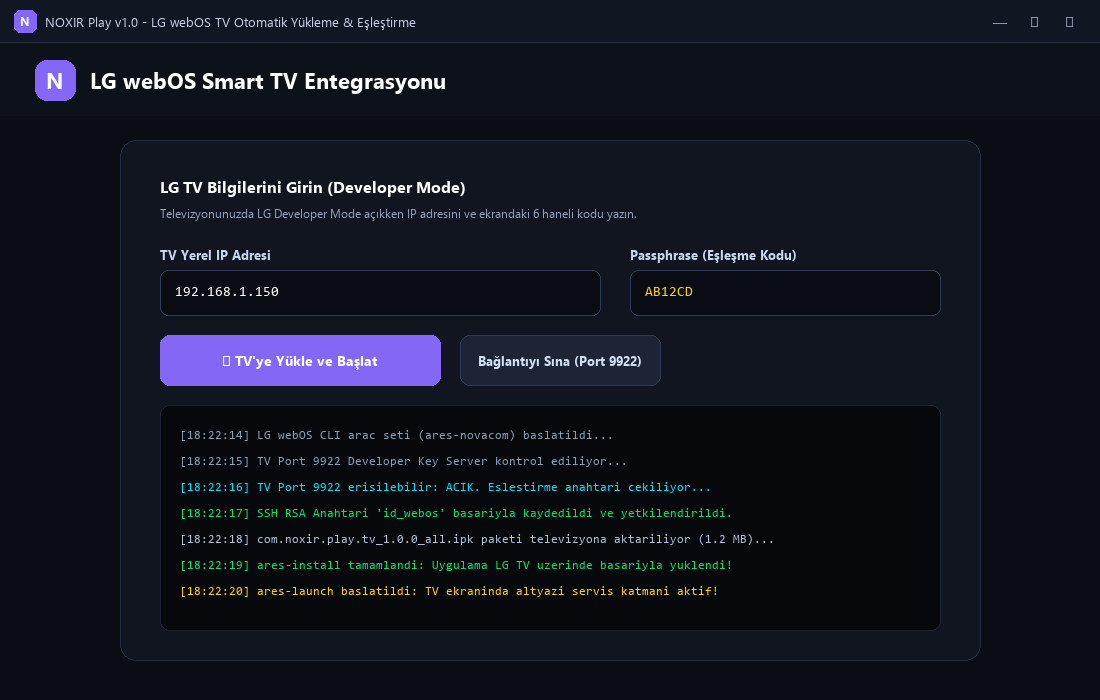
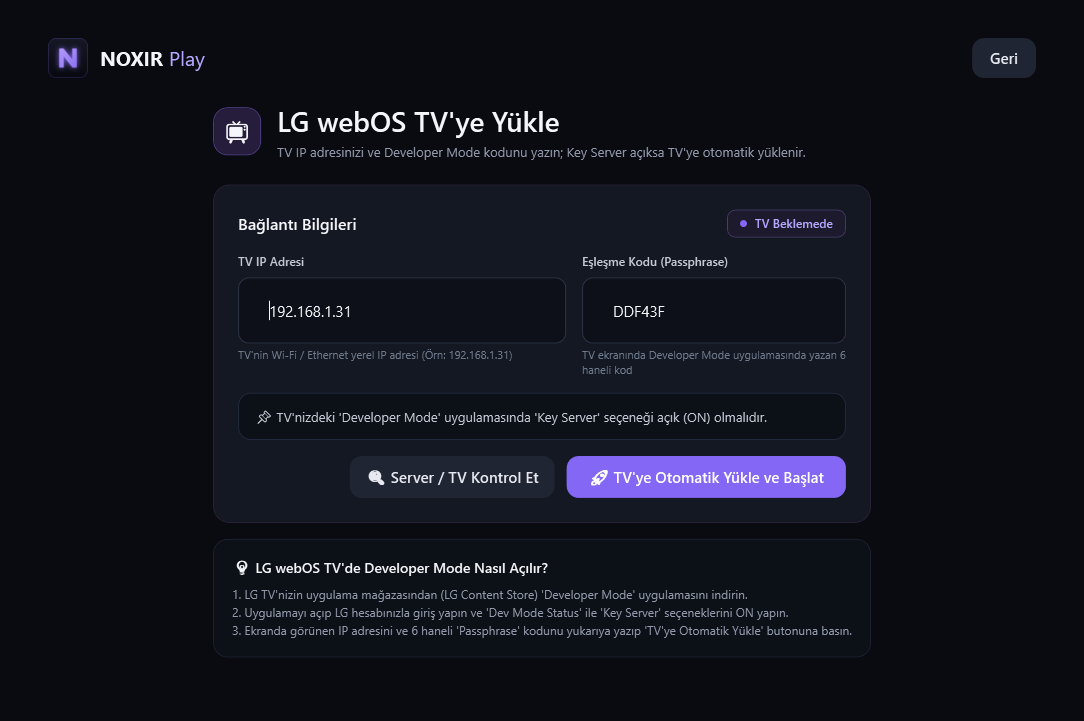
Update website UI screenshots to v1.0.6 with About tab

diff --git a/index.html b/index.html
@@ -147,7 +147,7 @@
       <div class="app-titlebar">
         <div style="display: flex; align-items: center; gap: 8px;">
           <img src="assets/icon.png" width="18" height="18" style="border-radius: 4px;">
-          <span style="font-size: 0.85rem; font-weight: 600; color: #cfd8dc;">NOXIR Play v1.0 - PS5 Canlı Altyazı & TV Çeviri (Resmi Arayüz)</span>
+          <span style="font-size: 0.85rem; font-weight: 600; color: #cfd8dc;">NOXIR Play v1.0.6 - PS5 Canlı Altyazı & TV Çeviri (Resmi Arayüz)</span>
         </div>
         <div style="display: flex; gap: 10px; color: #78909c; font-size: 0.8rem;">
           <span>—</span>
@@ -174,6 +174,10 @@
           <div class="app-nav-item" data-tab="guide">
             <i class="fa-solid fa-book-open"></i>
             <span>Kullanım Kılavuzu</span>
+          </div>
+          <div class="app-nav-item" data-tab="about">
+            <i class="fa-solid fa-circle-info"></i>
+            <span>Hakkında &amp; Güncelleme</span>
           </div>
 
           <div style="margin-top: auto; padding: 1rem; background: rgba(0,0,0,0.3); border-radius: 10px; font-size: 0.75rem; color: #78909c;">
@@ -237,7 +241,7 @@
               <div class="mockup-card">
                 <h3><i class="fa-solid fa-tv" style="color: var(--accent-purple);"></i> Otomatik LG webOS Kurulumu</h3>
                 <p style="font-size: 0.88rem; color: #90a4ae;">
-                  Port 9922 üzerinden SSH anahtarı otomatik çekilir ve <code style="color: #00e676;">com.noxir.play.tv_1.0.0_all.ipk</code> paketi televizyonunuza tek tıkla yüklenir.
+                  Port 9922 üzerinden SSH anahtarı otomatik çekilir ve <code style="color: #00e676;">com.noxir.play.tv_1.0.1_all.ipk</code> paketi televizyonunuza tek tıkla yüklenir.
                 </p>
               </div>
               <div class="mockup-card">
@@ -273,10 +277,52 @@
             </div>
           </div>
 
+          <!-- Tab 5: About & Updates (Real UI Screenshot) -->
+          <div class="app-tab-pane" id="tab-about">
+            <div class="app-screenshot-frame">
+              <img src="assets/ui-about.png" alt="NOXIR Play Hakkında ve Güncelleme Ekran Görüntüsü" class="app-screenshot-img">
+            </div>
+            <div class="mockup-grid">
+              <div class="mockup-card">
+                <h3><i class="fa-solid fa-sparkles" style="color: var(--accent-purple);"></i> Sürüm Notları &amp; Bunlar Getirildi</h3>
+                <p style="font-size: 0.88rem; color: #90a4ae;">
+                  Her güncellemede hangi yeniliklerin ve düzeltmelerin getirildiğini doğrudan uygulama içindeki Hakkında ekranından takip edebilirsiniz.
+                </p>
+              </div>
+              <div class="mockup-card">
+                <h3><i class="fa-solid fa-rotate" style="color: var(--accent-green);"></i> Doğrudan Uygulama İçi Güncelleme</h3>
+                <p style="font-size: 0.88rem; color: #90a4ae;">
+                  Yeni sürüm yayınlandığında tarayıcıya yönlendirmeden doğrudan uygulama içinden indirilir ve ayarlarınız korunarak güncellenir.
+                </p>
+              </div>
+            </div>
+          </div>
+
         </div>
       </div>
     </div>
   </section>
+
+          <!-- Tab 5: About & Updates (Real UI Screenshot) -->
+          <div class="app-tab-pane" id="tab-about">
+            <div class="app-screenshot-frame">
+              <img src="assets/ui-about.png" alt="NOXIR Play Hakkında ve Güncelleme Ekran Görüntüsü" class="app-screenshot-img">
+            </div>
+            <div class="mockup-grid">
+              <div class="mockup-card">
+                <h3><i class="fa-solid fa-sparkles" style="color: var(--accent-purple);"></i> Sürüm Notları &amp; Bunlar Getirildi</h3>
+                <p style="font-size: 0.88rem; color: #90a4ae;">
+                  Her güncellemede hangi yeniliklerin ve düzeltmelerin getirildiğini doğrudan uygulama içindeki Hakkında ekranından takip edebilirsiniz.
+                </p>
+              </div>
+              <div class="mockup-card">
+                <h3><i class="fa-solid fa-rotate" style="color: var(--accent-green);"></i> Doğrudan Uygulama İçi Güncelleme</h3>
+                <p style="font-size: 0.88rem; color: #90a4ae;">
+                  Yeni sürüm yayınlandığında tarayıcıya yönlendirmeden doğrudan uygulama içinden indirilir ve ayarlarınız korunarak güncellenir.
+                </p>
+              </div>
+            </div>
+          </div>
 
         </div>
       </div>
